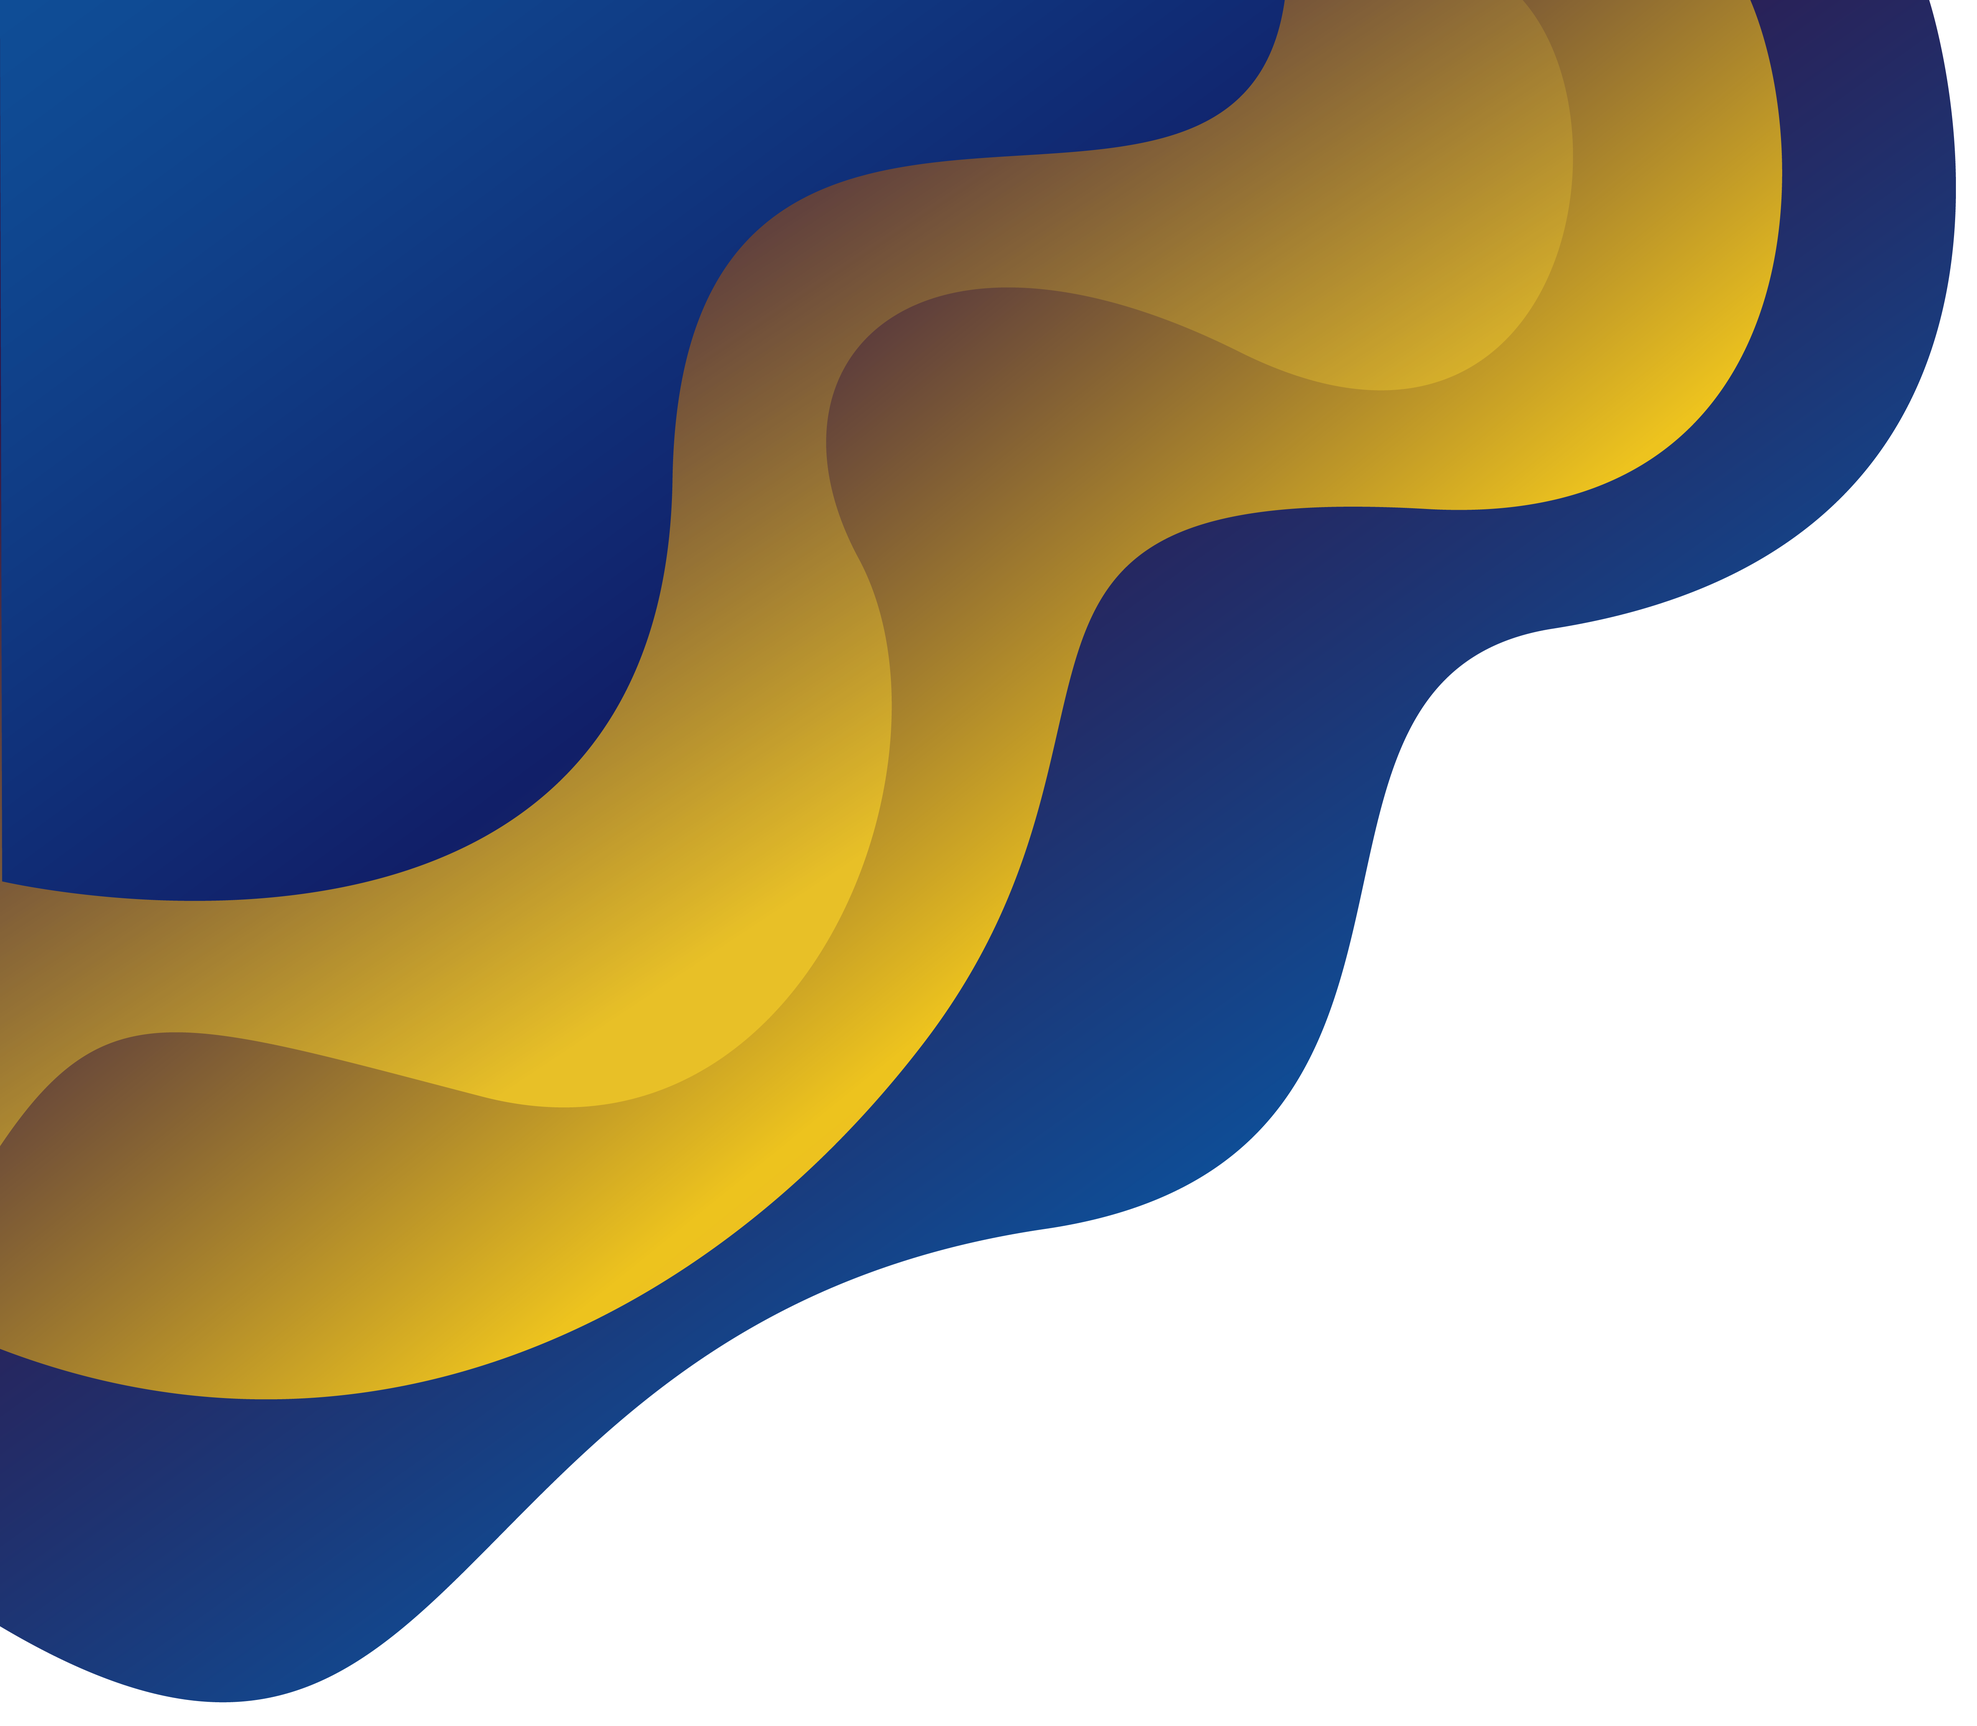
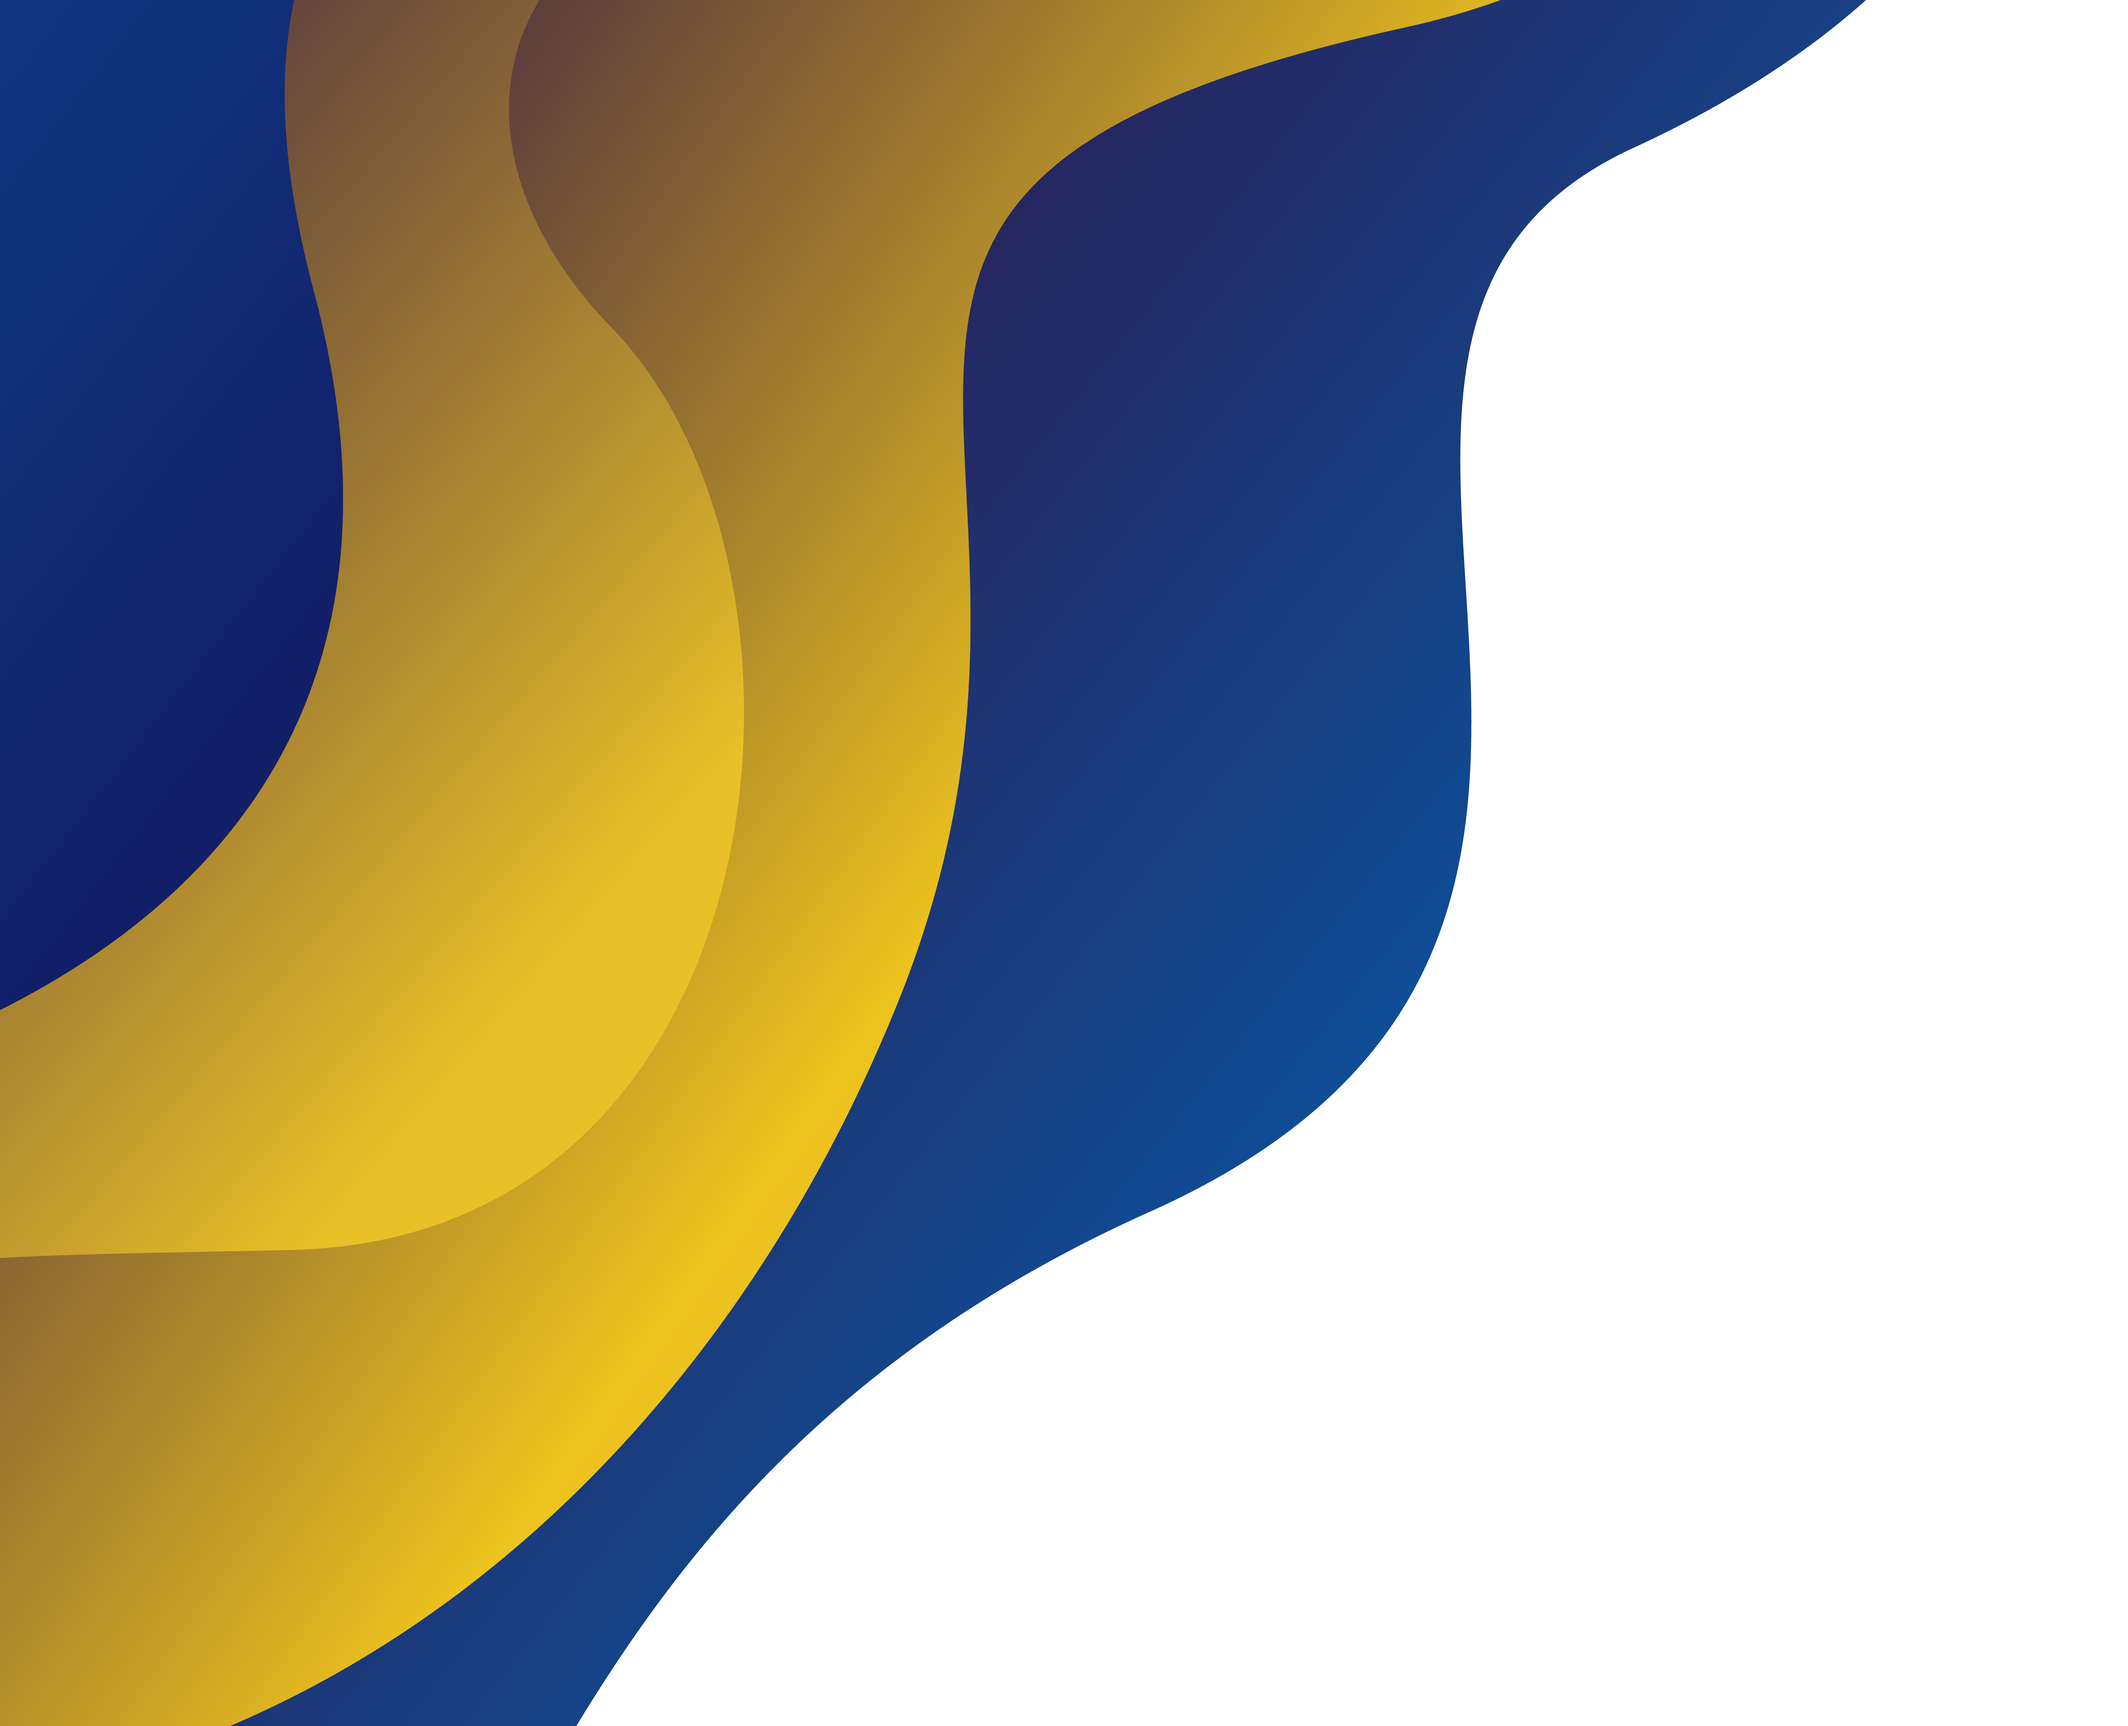
News.html

diff --git a/news.html b/news.html
@@ -5,7 +5,7 @@
     <meta name="viewport" content="width=device-width, initial-scale=1.0">
     <title>LPL20 | Lanka Premier League</title>
     <link rel="icon" href="assets/favicon.png" type="image/gif">
-    <link rel="stylesheet" href="style.css">
+    <link rel="stylesheet" href="news.css">
     <script src="countdown.js"></script>
 </head>
 <body>
@@ -31,10 +31,34 @@
     </nav>
     <main>
         <img src="assets/theme3.png">
-        <h3>A NEW ERA<br>IN SRI LANKAN<br>DOMESTIC CRICKET</h3>
-        <h4>#LPL20</h4>
-        <h2>BEGINS IN</h2>
-        <h1 id="cd"></h1>
+        <h1>News</h1>
+        <h2>Find the latest news on Lanka Premier League 20<br>
+            The most awaited event of the year #LPL20</h2>
     </main>
+    <section>
+        <div id="card" class="row">
+            <div class="column" style="background-color:white;">
+                <img src="assets/news1.jpg">
+                <h5>Lorem Ipsum</h5>
+                <p>Lorem ipsum dolor sit amet, consectetur adipiscing elit,
+                    sed do eiusmod tempor incididunt ut labore 
+                    et dolore magna aliqua</p>
+            </div>
+            <div class="column" style="background-color:white;">
+                <img src="assets/news2.jpg">
+                <h5>Duis aute irure</h5>
+                <p>Lorem ipsum dolor sit amet, consectetur adipiscing elit,
+                    sed do eiusmod tempor incididunt ut labore 
+                    et dolore magna aliqua</p>
+            </div>
+            <div class="column" style="background-color:white;">
+                <img src="assets/news3.jpg">
+                <h5>Excepteur sint</h5>
+                <p>Lorem ipsum dolor sit amet, consectetur adipiscing elit,
+                    sed do eiusmod tempor incididunt ut labore 
+                    et dolore magna aliqua</p>
+            </div>
+        </div>
+    </section>
 </body>
 </html>

diff --git a/news.css b/news.css
@@ -14,7 +14,7 @@
 
 body{
     margin: 0;
-    background-image: url(assets/landingpage.png);
+    background-image: url(assets/landingpage2.jpg);
     background-size: cover;
     background-repeat: no-repeat;
 }
@@ -87,28 +87,30 @@ main{
 }
 
 main img{
+    width: 100%;
     height: 100vh;
     margin-left: 400px;
     position: fixed;
-    left: 0px;
-    top: 0px;
+    right: 0px;
+    bottom: 0px;
     z-index: -1;
 }
 
 main h1{
-    font-size: 7em;
+    font-size: 6em;
     padding: 40px;
     color: white;
+    margin-top: 0;
     position: fixed;
-    bottom: 0;
 }
 
 main h2{
-    font-size: 5em;
+    font-size: 2em;
     padding: 40px;
     color: white;
+    margin-top: 0;
     position: fixed;
-    bottom: 1.6em;
+    top: 4em;
 }
 
 main h3{
@@ -127,4 +129,44 @@ main h4{
     color: white;
     position: fixed;
     top: 2.5em;
+}
+
+#card{
+    position: fixed;
+    top: 17em;
+    padding: 30px;
+}
+
+.column {
+    float: left;
+    width: 30%;
+    padding: 10px;
+    margin-left: 15px;
+    height: 380px;
+    border-radius: 20px;
+}
+
+.row:after {
+    content: "";
+    display: table;
+    clear: both;
+}
+
+section{
+    margin-left: 400px;
+}
+
+section img{
+    height: 220px;
+    border-radius: 15px;
+}
+
+section h5{
+    margin: 15px;
+    font-size: 1.5em;
+}
+
+section p{
+    margin: 15px;
+    font-size: 1em;
 }

diff --git a/index.html b/index.html
@@ -30,7 +30,7 @@
         <p>© LPL. All Rights Reserved</p>
     </nav>
     <main>
-        <img src="assets/theme3.png">
+        <img src="assets/theme1.png">
         <h3>A NEW ERA<br>IN SRI LANKAN<br>DOMESTIC CRICKET</h3>
         <h4>#LPL20</h4>
         <h2>BEGINS IN</h2>
